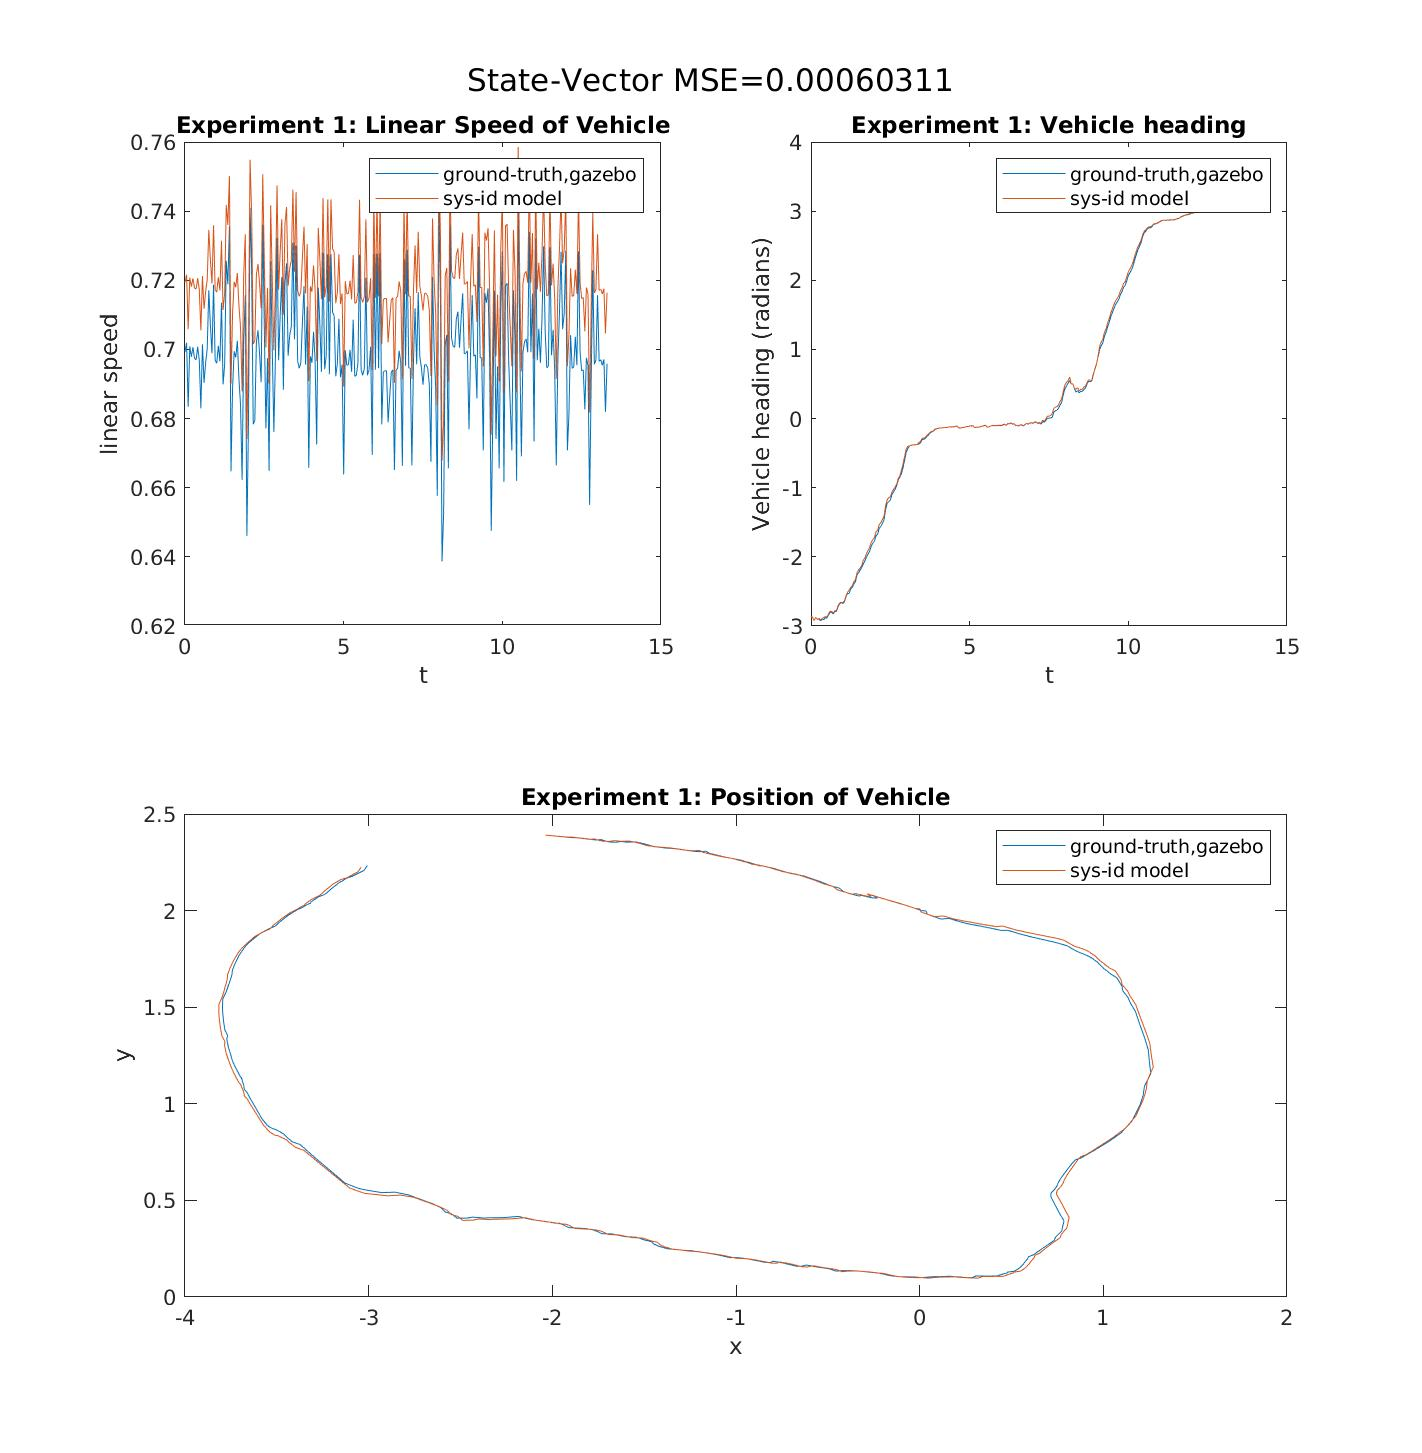
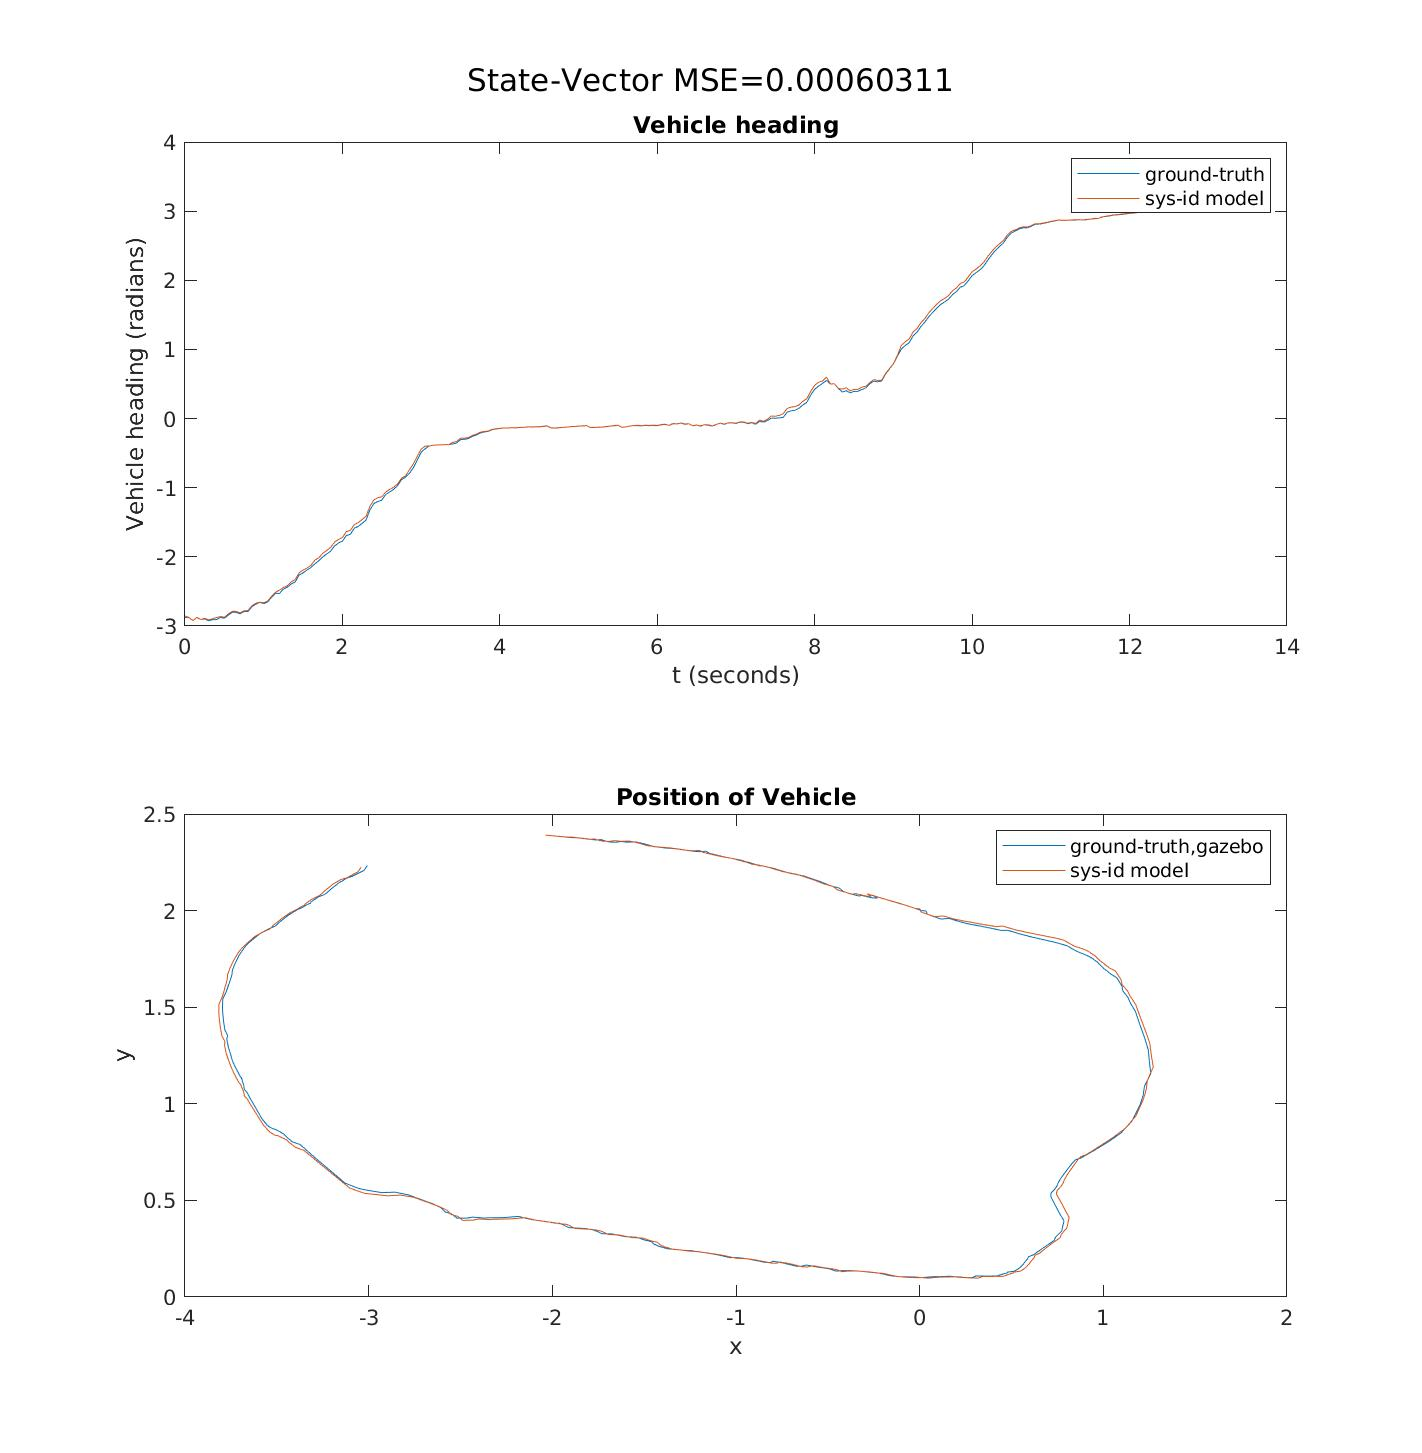
change plots

diff --git a/src/racecar/sys_id/validate_experiment.m b/src/racecar/sys_id/validate_experiment.m
@@ -20,22 +20,14 @@ err = immse(x,xe);
 
 fig= figure();
 set(gcf, 'Position',  [100, 100, 900, 900])
-subplot(2,2,1);
-plot(t,x(3,:),'DisplayName','ground-truth,gazebo')
-hold on;
-plot(t,xe(3,:),'DisplayName','sys-id model')
-xlabel('t') 
-ylabel('linear speed') 
-title("Experiment 1: Linear Speed of Vehicle")
-legend
 
-subplot(2,2,2);
-plot(t,x(4,:),'DisplayName','ground-truth,gazebo')
+subplot(2,2,[1,2]);
+plot(t,x(4,:),'DisplayName','ground-truth')
 hold on;
 plot(t,xe(4,:),'DisplayName','sys-id model')
-xlabel('t') 
+xlabel('t (seconds)') 
 ylabel('Vehicle heading (radians)') 
-title("Experiment 1: Vehicle heading")
+title("Vehicle heading")
 legend
 
 
@@ -46,7 +38,7 @@ plot(xe(1,:),xe(2,:),'DisplayName','sys-id model')
 hold off;
 xlabel('x') 
 ylabel('y') 
-title("Experiment 1: Position of Vehicle")
+title("Position of Vehicle")
 legend
 sgtitle(strcat('State-Vector MSE=',string(err)))
 figname = split(strrep(csv_filename,'csv/',''),".");
